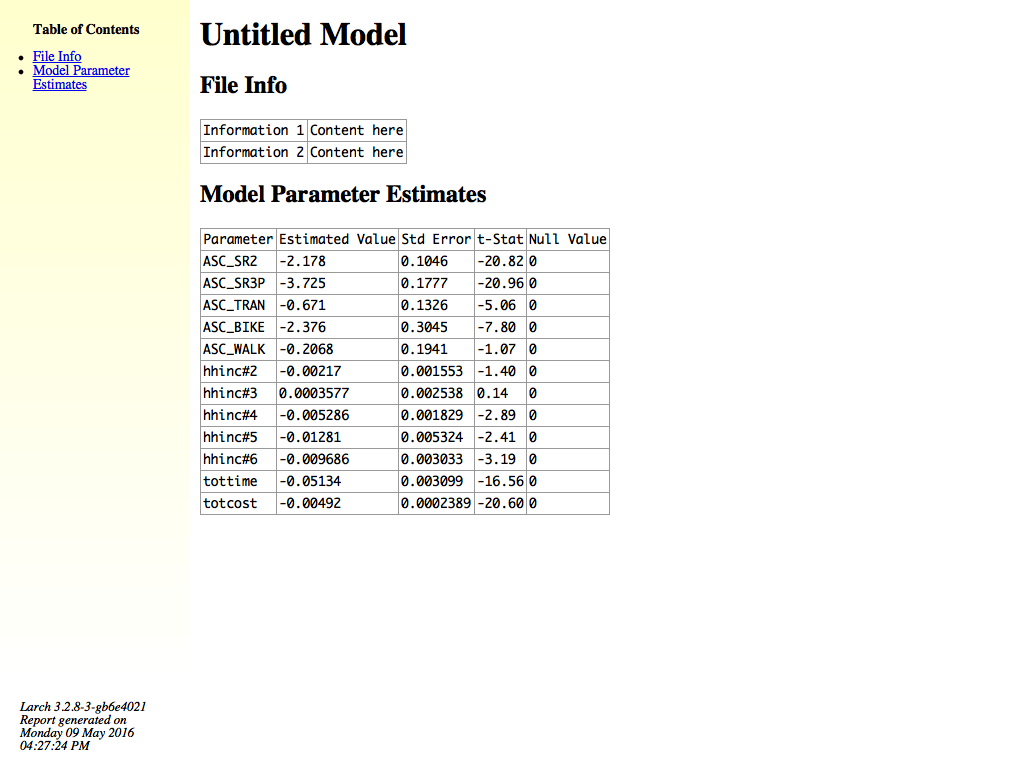
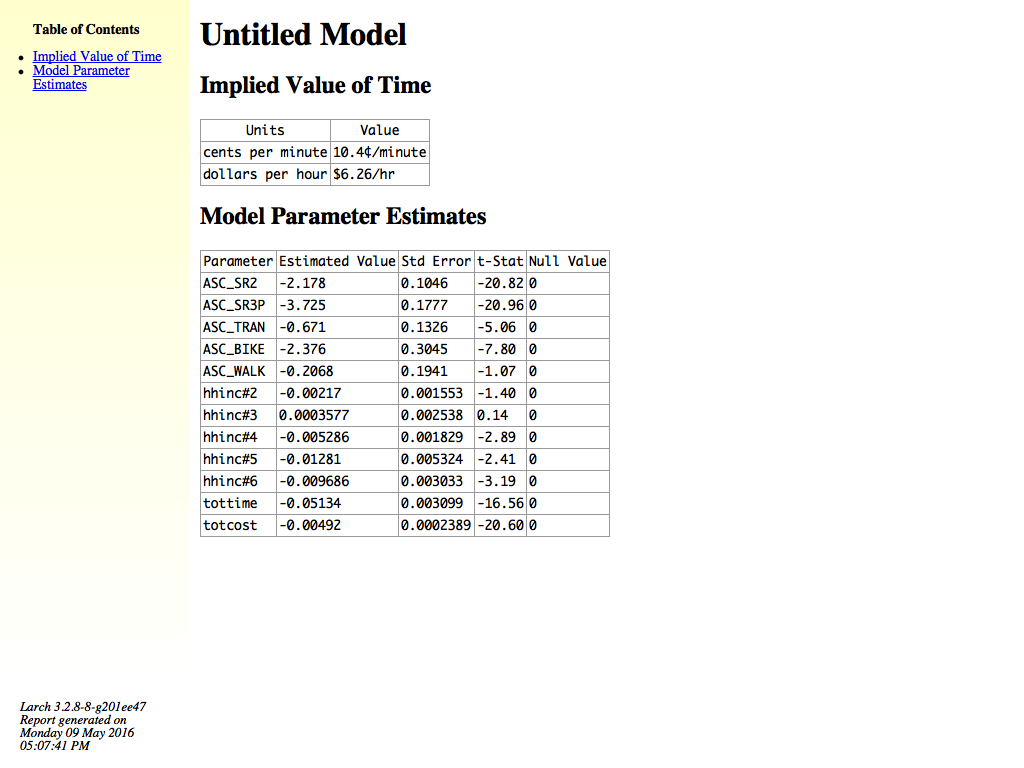
more interesting reporting example

diff --git a/doc/reporting.rst b/doc/reporting.rst
@@ -28,25 +28,30 @@ XHTML Format
 You can either use the pre-made :meth:`Model.xhtml_report` to generate a
 report on a model, or you can roll your own using a combination of
 xhtml_* components and custom elements.  For example, you might make a
-custom table to hold some facts about your model or data (this example is
-very simple, but you could make it more complex and pull information
-programatically instead of using fixed strings):
+custom table to hold some facts about your model or data:
 
 .. doctest::
 	:options: +ELLIPSIS, +NORMALIZE_WHITESPACE
 
 	>>> from larch.util.xhtml import XML_Builder
-	>>> def report_fileinfo():
-	...		x = XML_Builder("div", {'class':"file_info"})
-	...		x.h2("File Info", anchor=1)
+	>>> def report_valueoftime(m):
+	...		from larch.roles import P
+	...		VoT_cents_per_minute = P.tottime / P.totcost
+	...		VoT_dollars_per_hour = (P.tottime * 60) / (P.totcost * 100)
+	...		x = XML_Builder("div", {'class':"value_of_time"})
+	...		x.h2("Implied Value of Time", anchor=1)
 	...		with x.block("table"):
 	...			with x.block("tr"):
-	...				x.td("Information 1")
-	...				x.td("Content here")
+	...				x.th("Units")
+	...				x.th("Value")
 	...			with x.block("tr"):
-	...				x.td("Information 2")
-	...				x.td("Content here")
+	...				x.td("cents per minute")
+	...				x.td(VoT_cents_per_minute.str(m, fmt="{:.1f}¢/minute"))
+	...			with x.block("tr"):
+	...				x.td("dollars per hour")
+	...				x.td("VoT_dollars_per_hour.str(m, fmt="${:.2f}/hr")")
 	...		return x.close()
+
 
 Then you could incorporate that table into a model report like this:
 
@@ -57,7 +62,7 @@ Then you could incorporate that table into a model report like this:
 	>>> m = larch.Model.Example(1, pre=True)
 	>>> with XHTML(quickhead=m) as f:
 	...		f << m.xhtml_title()
-	...		f << report_fileinfo()
+	...		f << report_valueoftime(m)
 	...		f << m.xhtml_params()
 	...		s=(f.dump())
 	>>> print(s)
